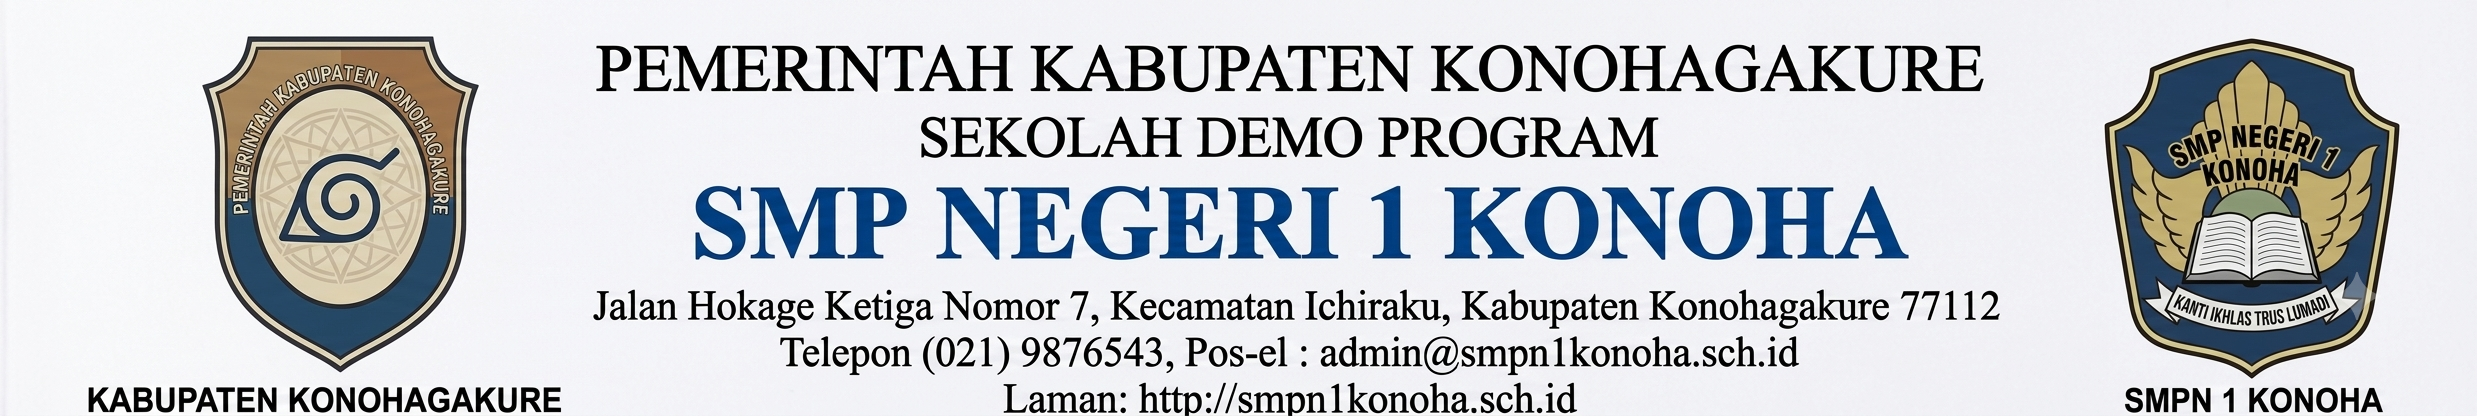
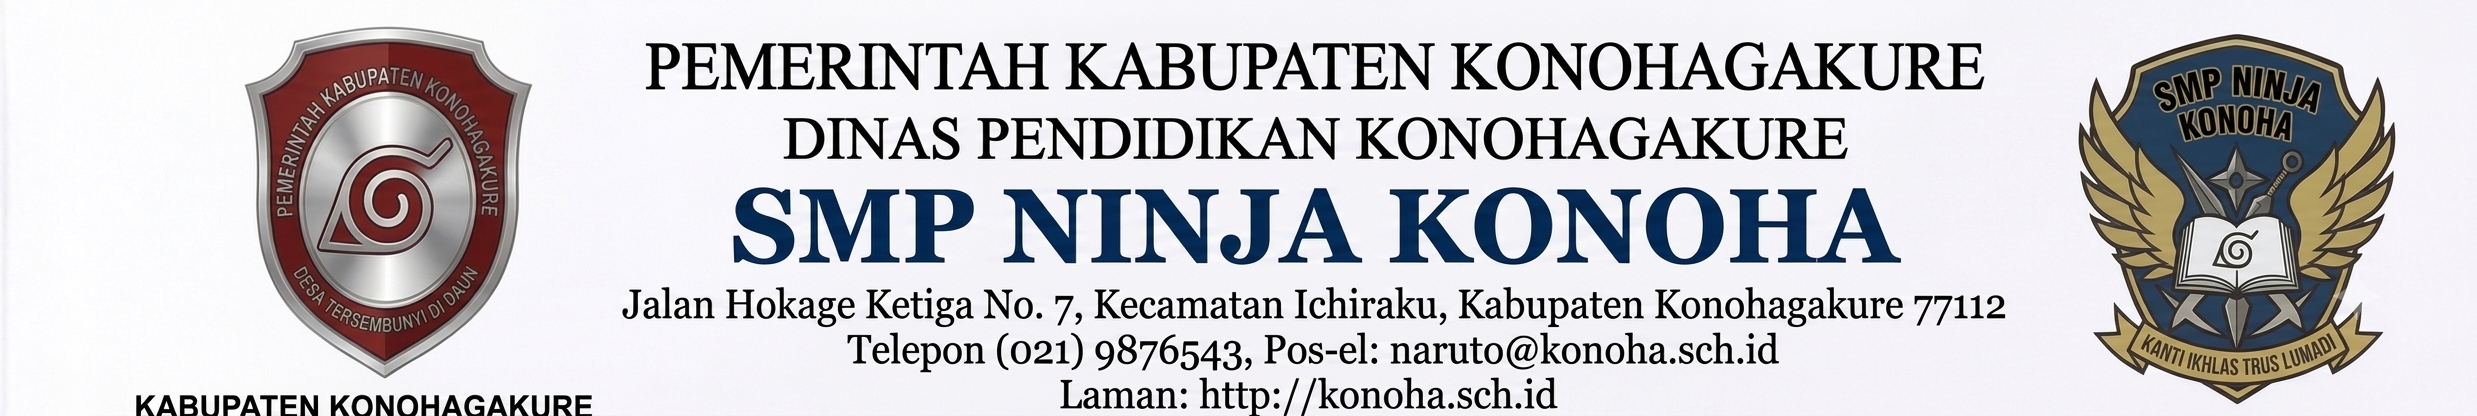
Ganti header demo ke versi SMP NINJA KONOHA terbaru, PDF rapor & UTS sekarang VIEW inline (bukan langsung download), perbesar font rapor semester, tambah generate Ekstrakurikuler+Kokurikuler(P5) di demo seeder

diff --git a/app/Console/Commands/SeedDemoErapor.php b/app/Console/Commands/SeedDemoErapor.php
@@ -197,6 +197,56 @@ class SeedDemoErapor extends Command
                 }
             }
 
+            // ── Ekstrakurikuler ──────────────────────────────────────────
+            $daftarEkskul = ['Pramuka', 'Futsal', 'Paduan Suara'];
+            foreach ($daftarEkskul as $namaEkskul) {
+                \App\Models\GuruEkstrakurikuler::firstOrCreate([
+                    'sekolah_id' => $sekolah->id, 'tahun_ajaran_id' => $tahunAjaran->id,
+                    'guru_id' => $guruList->random()->id, 'nama_ekstrakurikuler' => $namaEkskul,
+                ]);
+            }
+            foreach ($siswaKelas as $siswa) {
+                if (rand(0, 100) > 70) continue; // sebagian siswa tidak ikut ekskul, biar realistis
+                $rapor = Rapor::where('siswa_id', $siswa->id)->where('tahun_ajaran_id', $tahunAjaran->id)->where('semester', $semester)->first();
+                if (! $rapor || $rapor->detailEkskul()->exists()) continue;
+
+                $ikutEkskul = collect($daftarEkskul)->random(rand(1, 2));
+                foreach ((is_iterable($ikutEkskul) ? $ikutEkskul : [$ikutEkskul]) as $namaEkskul) {
+                    \App\Models\RaporDetailEkskul::create([
+                        'rapor_id' => $rapor->id, 'nama_ekskul' => $namaEkskul,
+                        'kehadiran_hadir' => rand(6, 10), 'kehadiran_total' => 10,
+                        'evaluasi' => ['Sangat Baik', 'Baik', 'Cukup'][array_rand(['Sangat Baik', 'Baik', 'Cukup'])],
+                        'keterangan' => 'Mengikuti kegiatan dengan aktif dan disiplin.',
+                    ]);
+                }
+            }
+
+            // ── Kokurikuler (P5) ─────────────────────────────────────────
+            $kegiatanP5 = \App\Models\KokurikulerKegiatan::create([
+                'sekolah_id' => $sekolah->id, 'tahun_ajaran_id' => $tahunAjaran->id,
+                'nama_kegiatan' => '7 Kebiasaan Anak Indonesia Hebat', 'tema' => 'Gaya Hidup Berkelanjutan',
+                'bentuk_kegiatan' => 'Lintas Disiplin', 'koordinator_guru_id' => $guruList->random()->id, 'semester' => $semester,
+            ]);
+            foreach (array_slice(\App\Models\KokurikulerKegiatan::daftarDimensi(), 0, 3) as $dim) {
+                \App\Models\KokurikulerTargetDimensi::create(['kegiatan_id' => $kegiatanP5->id, 'nama_dimensi' => $dim]);
+            }
+            \App\Models\KokurikulerKelasTerlibat::create(['kegiatan_id' => $kegiatanP5->id, 'kelas' => $kk->kelas, 'rombel' => $kk->rombel]);
+            \App\Models\KokurikulerMapelTerlibat::create(['kegiatan_id' => $kegiatanP5->id, 'mata_pelajaran_id' => $mapelList->first()->id]);
+
+            $dimensiList = $kegiatanP5->targetDimensis;
+            foreach ($siswaKelas as $siswa) {
+                foreach ($dimensiList as $dim) {
+                    \App\Models\KokurikulerAsesmen::create([
+                        'target_dimensi_id' => $dim->id, 'siswa_id' => $siswa->id,
+                        'nilai_kualitatif' => ['Sangat Baik', 'Baik', 'Baik', 'Cukup'][array_rand(['Sangat Baik', 'Baik', 'Baik', 'Cukup'])],
+                        'catatan_guru' => 'Menunjukkan perkembangan yang baik selama projek berlangsung.',
+                    ]);
+                }
+                $deskripsiP5 = \App\Http\Controllers\KokurikulerController::generateDeskripsi($siswa->id, $kegiatanP5->id);
+                Rapor::where('siswa_id', $siswa->id)->where('tahun_ajaran_id', $tahunAjaran->id)->where('semester', $semester)
+                    ->update(['deskripsi_kokurikuler' => $deskripsiP5]);
+            }
+
             $this->info("Kelas {$kk->kelas}-{$kk->rombel} selesai (" . $siswaKelas->count() . ' siswa, status: ' . ($isFinal ? 'Final' : 'Draft') . ')');
         }
 

diff --git a/resources/views/erapor/rapor/pdf.blade.php b/resources/views/erapor/rapor/pdf.blade.php
@@ -4,35 +4,35 @@
 <meta charset="utf-8">
 <style>
     * { font-family: 'DejaVu Sans', sans-serif; box-sizing: border-box; }
-    body { font-size: {{ $sekolah->rapor_font_size === 'kecil' ? '9px' : ($sekolah->rapor_font_size === 'besar' ? '11px' : '10px') }}; color: #1a1a1a; margin: 0; }
+    body { font-size: {{ $sekolah->rapor_font_size === 'kecil' ? '10px' : ($sekolah->rapor_font_size === 'besar' ? '12.5px' : '11.5px') }}; color: #1a1a1a; margin: 0; }
     .kop { display: table; width: 100%; margin-bottom: 6px; }
     .kop-row { display: table-row; }
     .kop-cell { display: table-cell; vertical-align: middle; }
     .kop-logo { width: 100px; text-align: center; }
     .kop-logo img { max-width: 95px; max-height: 95px; }
     .kop-text { text-align: center; font-family: 'DejaVu Serif', serif; }
-    .kop-text h1 { font-size: 14px; margin: 0; font-weight: bold; }
-    .kop-text h2 { font-size: 12px; margin: 1px 0; font-weight: normal; }
-    .kop-text h3 { font-size: 16px; margin: 2px 0; font-weight: bold; }
-    .kop-text p { font-size: 9.5px; margin: 1px 0; }
+    .kop-text h1 { font-size: 16px; margin: 0; font-weight: bold; }
+    .kop-text h2 { font-size: 13px; margin: 1px 0; font-weight: normal; }
+    .kop-text h3 { font-size: 18px; margin: 2px 0; font-weight: bold; }
+    .kop-text p { font-size: 11px; margin: 1px 0; }
     .garis-tebal { border-bottom: 3px solid #000; border-top: 1px solid #000; height: 4px; margin-bottom: 10px; }
 
-    .identitas { display: table; width: 100%; margin-bottom: 14px; font-size: 10px; }
+    .identitas { display: table; width: 100%; margin-bottom: 16px; font-size: 11.5px; }
     .identitas-col { display: table-cell; width: 50%; vertical-align: top; }
-    .identitas-row { display: table; width: 100%; margin-bottom: 2px; }
-    .identitas-label { display: table-cell; width: 110px; }
+    .identitas-row { display: table; width: 100%; margin-bottom: 3px; }
+    .identitas-label { display: table-cell; width: 120px; }
     .identitas-sep { display: table-cell; width: 12px; }
     .identitas-val { display: table-cell; font-weight: bold; }
 
-    .section-title { font-size: 11px; font-weight: bold; margin: 14px 0 6px; }
+    .section-title { font-size: 13px; font-weight: bold; margin: 16px 0 7px; }
 
-    table.nilai { width: 100%; border-collapse: collapse; margin-bottom: 10px; }
-    table.nilai th { background: {{ ['biru'=>'#dbeafe','hijau'=>'#dcfce7','kuning'=>'#fef9c3'][$sekolah->rapor_warna_tabel ?? 'biru'] }}; border: 1px solid #333; padding: 5px 6px; font-size: 9.5px; text-align: center; }
-    table.nilai td { border: 1px solid #333; padding: 5px 6px; font-size: 9px; vertical-align: top; }
+    table.nilai { width: 100%; border-collapse: collapse; margin-bottom: 12px; }
+    table.nilai th { background: {{ ['biru'=>'#dbeafe','hijau'=>'#dcfce7','kuning'=>'#fef9c3'][$sekolah->rapor_warna_tabel ?? 'biru'] }}; border: 1px solid #333; padding: 6px 7px; font-size: 11px; text-align: center; }
+    table.nilai td { border: 1px solid #333; padding: 6px 7px; font-size: 11px; vertical-align: top; }
     table.nilai td.center { text-align: center; }
 
-    .box { border: 1px solid #333; padding: 8px 10px; font-size: 9.5px; margin-bottom: 10px; }
-    .box-header { background: {{ ['biru'=>'#dbeafe','hijau'=>'#dcfce7','kuning'=>'#fef9c3'][$sekolah->rapor_warna_tabel ?? 'biru'] }}; border: 1px solid #333; padding: 5px 8px; font-size: 10.5px; font-weight: bold; margin-bottom: 0; }
+    .box { border: 1px solid #333; padding: 9px 11px; font-size: 11px; margin-bottom: 10px; }
+    .box-header { background: {{ ['biru'=>'#dbeafe','hijau'=>'#dcfce7','kuning'=>'#fef9c3'][$sekolah->rapor_warna_tabel ?? 'biru'] }}; border: 1px solid #333; padding: 6px 9px; font-size: 12px; font-weight: bold; margin-bottom: 0; }
 
     .grid-2 { display: table; width: 100%; }
     .grid-2 .col { display: table-cell; width: 48%; vertical-align: top; }

diff --git a/app/Http/Controllers/RaporController.php b/app/Http/Controllers/RaporController.php
@@ -283,7 +283,7 @@ class RaporController extends Controller
             'kotaTtd' => $kotaTtd,
         ])->setPaper($ukuranKertas, $sekolah->rapor_orientasi);
 
-        return $pdf->download('rapor-' . str_replace(' ', '-', $rapor->siswa->nama_lengkap) . '.pdf');
+        return $pdf->stream('rapor-' . str_replace(' ', '-', $rapor->siswa->nama_lengkap) . '.pdf');
     }
 
     /** Download template absensi: siswa 1 kelas, kolom NISN/Nama/Kelas/S/I/A kosong, urut kelas-no induk-nama */

diff --git a/app/Http/Controllers/SiswaPortalController.php b/app/Http/Controllers/SiswaPortalController.php
@@ -159,6 +159,6 @@ class SiswaPortalController extends Controller
             'waliKelas' => $waliKelas?->guru,
         ])->setPaper('a4', 'portrait');
 
-        return $pdf->download('uts-' . str_replace(' ', '-', $siswa->nama_lengkap) . '.pdf');
+        return $pdf->stream('uts-' . str_replace(' ', '-', $siswa->nama_lengkap) . '.pdf');
     }
 }
